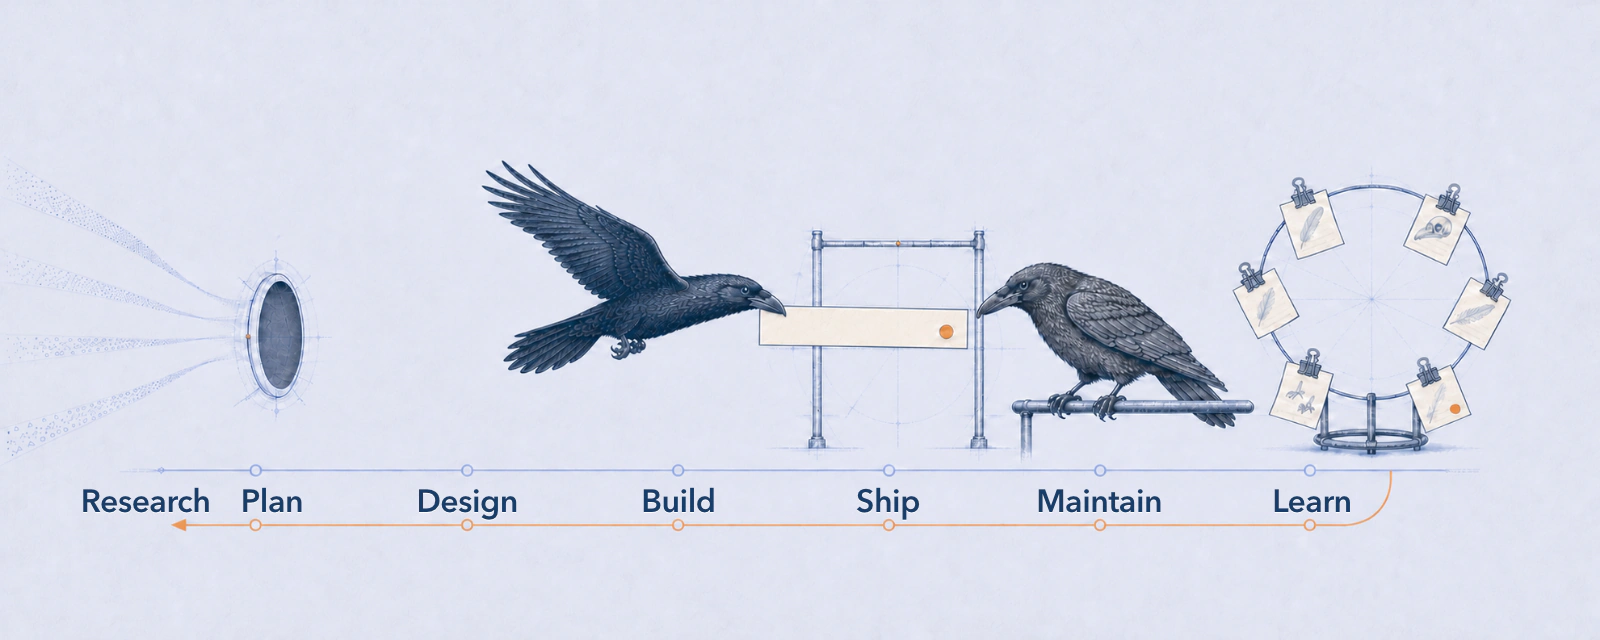
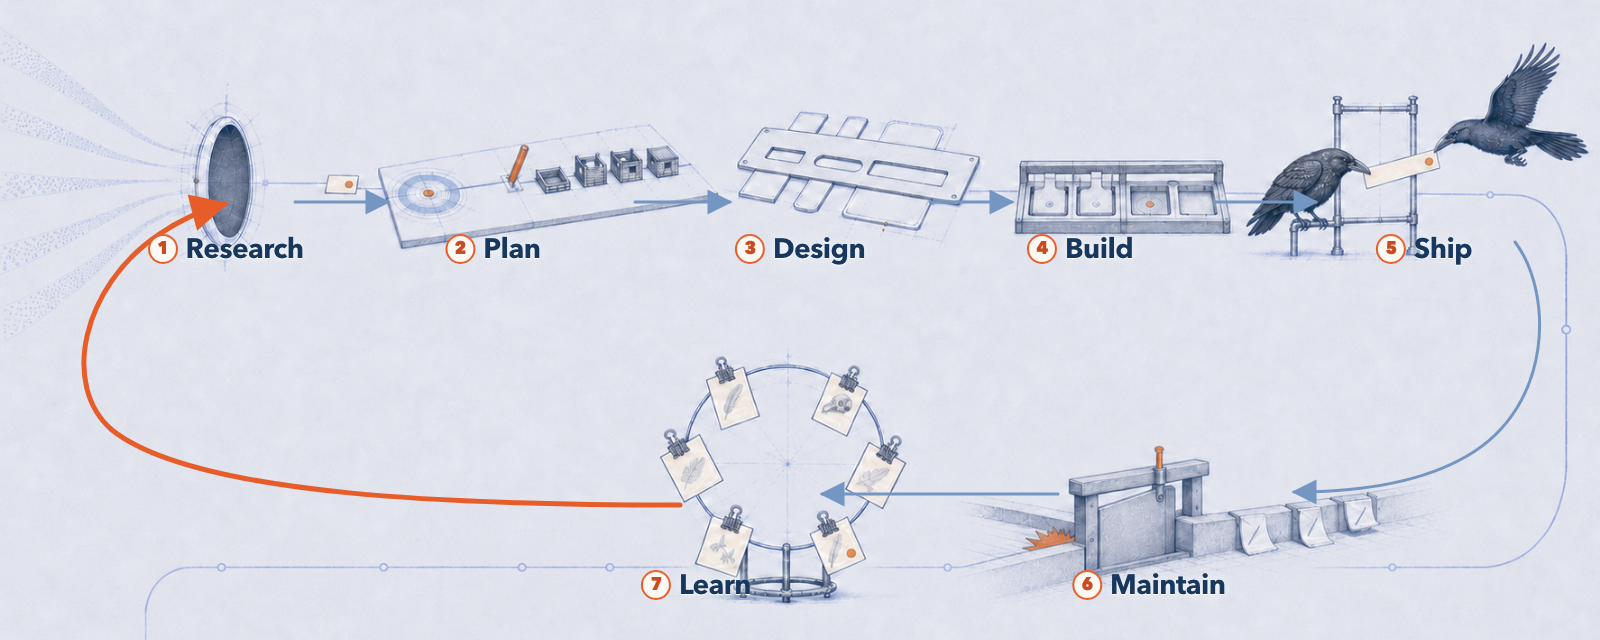
docs(workflows): clarify the seven-job circuit

Changed region(s): [[0.0312, 0.0625, 1.0, 0.9688], [0.0312, 0.4688, 0.0625, 0.6562], [0.3125, 0.875, 0.3438, 0.9062]]

diff --git a/WORKFLOWS.md b/WORKFLOWS.md
@@ -2,7 +2,7 @@
 
 My workflow is seven jobs that create a durable learning loop. Each section covers the reasoning first, then the tools and commands.
 
-![Huginn carrying active work through a verified handoff to Muninn, who closes the seven-job learning loop back to Research](docs/assets/workflow-overview.webp)
+![Seven illustrated workflow stations forming a circuit from Research through Plan, Design, Build, Ship, Maintain, and Learn, then looping back to Research](docs/assets/workflow-overview.webp)
 
 ## Foundations
 
